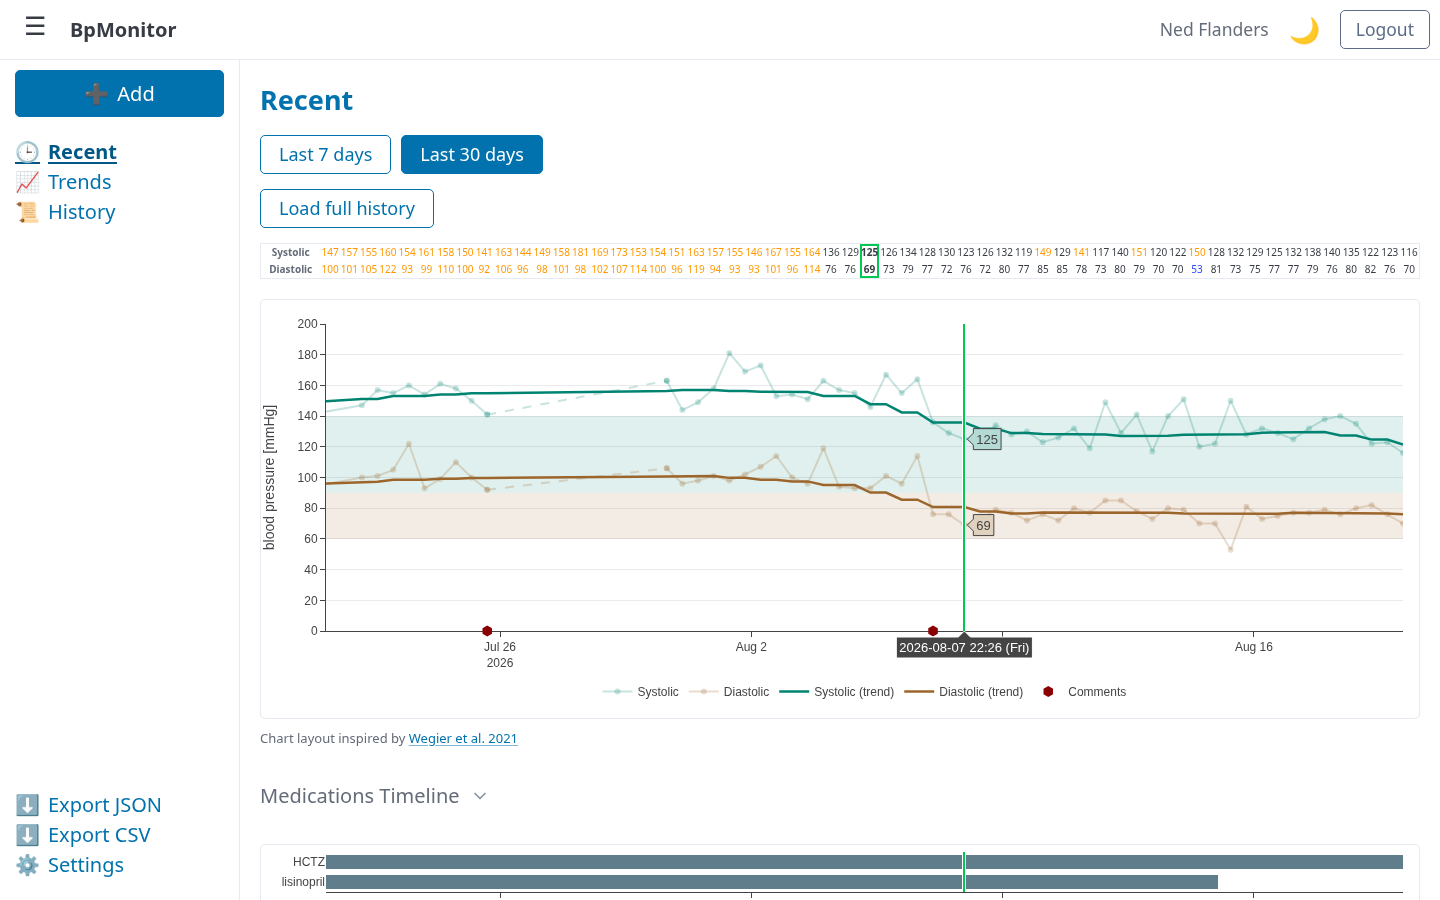
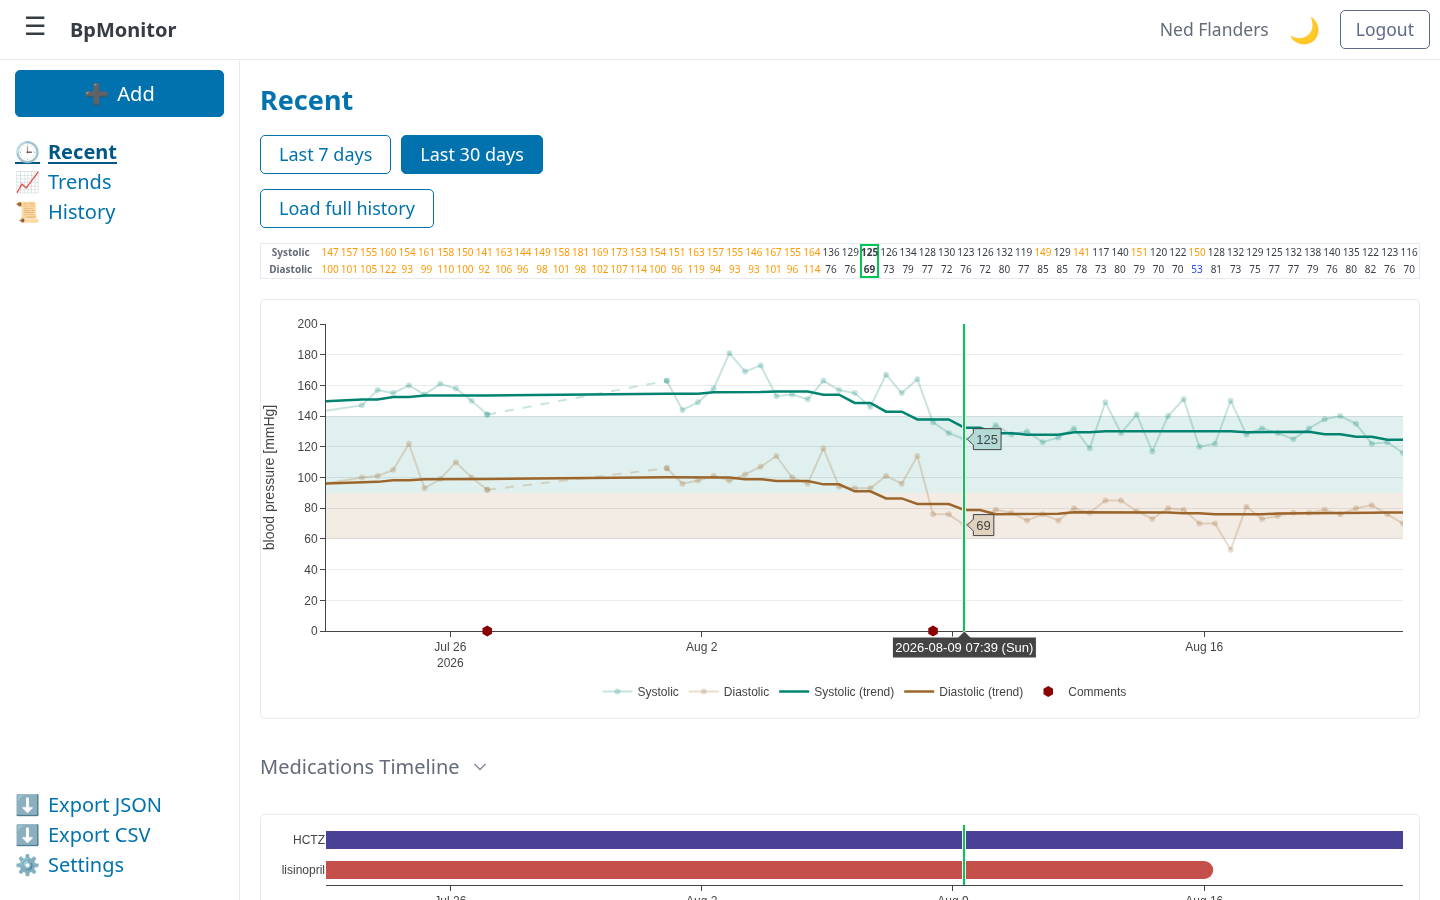
✨ feat(charts): give each medication its own color on the timeline
Each medication gets a stable, validated color hashed from its name, muted
to match the app's existing jewel-tone palette. Bars are thicker with
rounded ends, and a dark-mode zeroline bug is fixed.

diff --git a/code/BpMonitor.Charts.Tests/VerifiedSnapshots/MedicationChartTests.toHtmlMedications matches snapshot.verified.html b/code/BpMonitor.Charts.Tests/VerifiedSnapshots/MedicationChartTests.toHtmlMedications matches snapshot.verified.html
@@ -1,6 +1,6 @@
 <div><div id="Guid_1"><!-- Plotly chart will be drawn inside this DIV --></div><script type="text/javascript">var renderPlotly_Guid_1 = function() {
-    var data = [{"type":"scatter","mode":"lines","x":["2026-01-01 00:00","2026-02-01 00:00"],"y":[0,0],"text":["hydrochlorothiazide<br>2026-01-01 → ongoing","hydrochlorothiazide<br>2026-01-01 → ongoing"],"marker":{},"line":{"color":"#607D8B","width":14.0},"showlegend":false,"hovertemplate":"%{text}<extra><\/extra>"},{"type":"scatter","mode":"lines","x":["2026-01-15 00:00","2026-01-28 00:00"],"y":[1,1],"text":["lisinopril<br>2026-01-15 → 2026-01-28<br>Ran out of medication","lisinopril<br>2026-01-15 → 2026-01-28<br>Ran out of medication"],"marker":{},"line":{"color":"#607D8B","width":14.0},"showlegend":false,"hovertemplate":"%{text}<extra><\/extra>"}];
-    var layout = {"height":88,"template":{"layout":{"title":{"x":0.05},"font":{"color":"rgba(42, 63, 95, 1.0)"},"paper_bgcolor":"rgba(255, 255, 255, 1.0)","plot_bgcolor":"rgba(229, 236, 246, 1.0)","autotypenumbers":"strict","colorscale":{"diverging":[[0.0,"#8e0152"],[0.1,"#c51b7d"],[0.2,"#de77ae"],[0.3,"#f1b6da"],[0.4,"#fde0ef"],[0.5,"#f7f7f7"],[0.6,"#e6f5d0"],[0.7,"#b8e186"],[0.8,"#7fbc41"],[0.9,"#4d9221"],[1.0,"#276419"]],"sequential":[[0.0,"#0d0887"],[0.1111111111111111,"#46039f"],[0.2222222222222222,"#7201a8"],[0.3333333333333333,"#9c179e"],[0.4444444444444444,"#bd3786"],[0.5555555555555556,"#d8576b"],[0.6666666666666666,"#ed7953"],[0.7777777777777778,"#fb9f3a"],[0.8888888888888888,"#fdca26"],[1.0,"#f0f921"]],"sequentialminus":[[0.0,"#0d0887"],[0.1111111111111111,"#46039f"],[0.2222222222222222,"#7201a8"],[0.3333333333333333,"#9c179e"],[0.4444444444444444,"#bd3786"],[0.5555555555555556,"#d8576b"],[0.6666666666666666,"#ed7953"],[0.7777777777777778,"#fb9f3a"],[0.8888888888888888,"#fdca26"],[1.0,"#f0f921"]]},"hovermode":"closest","hoverlabel":{"align":"left"},"coloraxis":{"colorbar":{"outlinewidth":0.0,"ticks":""}},"geo":{"showland":true,"landcolor":"rgba(229, 236, 246, 1.0)","showlakes":true,"lakecolor":"rgba(255, 255, 255, 1.0)","subunitcolor":"rgba(255, 255, 255, 1.0)","bgcolor":"rgba(255, 255, 255, 1.0)"},"mapbox":{"style":"light"},"polar":{"bgcolor":"rgba(229, 236, 246, 1.0)","radialaxis":{"linecolor":"rgba(255, 255, 255, 1.0)","gridcolor":"rgba(255, 255, 255, 1.0)","ticks":""},"angularaxis":{"linecolor":"rgba(255, 255, 255, 1.0)","gridcolor":"rgba(255, 255, 255, 1.0)","ticks":""}},"scene":{"xaxis":{"ticks":"","linecolor":"rgba(255, 255, 255, 1.0)","gridcolor":"rgba(255, 255, 255, 1.0)","gridwidth":2.0,"zerolinecolor":"rgba(255, 255, 255, 1.0)","backgroundcolor":"rgba(229, 236, 246, 1.0)","showbackground":true},"yaxis":{"ticks":"","linecolor":"rgba(255, 255, 255, 1.0)","gridcolor":"rgba(255, 255, 255, 1.0)","gridwidth":2.0,"zerolinecolor":"rgba(255, 255, 255, 1.0)","backgroundcolor":"rgba(229, 236, 246, 1.0)","showbackground":true},"zaxis":{"ticks":"","linecolor":"rgba(255, 255, 255, 1.0)","gridcolor":"rgba(255, 255, 255, 1.0)","gridwidth":2.0,"zerolinecolor":"rgba(255, 255, 255, 1.0)","backgroundcolor":"rgba(229, 236, 246, 1.0)","showbackground":true}},"ternary":{"aaxis":{"ticks":"","linecolor":"rgba(255, 255, 255, 1.0)","gridcolor":"rgba(255, 255, 255, 1.0)"},"baxis":{"ticks":"","linecolor":"rgba(255, 255, 255, 1.0)","gridcolor":"rgba(255, 255, 255, 1.0)"},"caxis":{"ticks":"","linecolor":"rgba(255, 255, 255, 1.0)","gridcolor":"rgba(255, 255, 255, 1.0)"},"bgcolor":"rgba(229, 236, 246, 1.0)"},"xaxis":{"title":{"standoff":15},"ticks":"","automargin":"height+width+left+right+top+bottom","linecolor":"rgba(255, 255, 255, 1.0)","gridcolor":"rgba(255, 255, 255, 1.0)","zerolinecolor":"rgba(255, 255, 255, 1.0)","zerolinewidth":2.0},"yaxis":{"title":{"standoff":15},"ticks":"","automargin":"height+width+left+right+top+bottom","linecolor":"rgba(255, 255, 255, 1.0)","gridcolor":"rgba(255, 255, 255, 1.0)","zerolinecolor":"rgba(255, 255, 255, 1.0)","zerolinewidth":2.0},"annotationdefaults":{"arrowcolor":"#2a3f5f","arrowhead":0,"arrowwidth":1},"shapedefaults":{"line":{"color":"rgba(42, 63, 95, 1.0)"}},"colorway":["rgba(99, 110, 250, 1.0)","rgba(239, 85, 59, 1.0)","rgba(0, 204, 150, 1.0)","rgba(171, 99, 250, 1.0)","rgba(255, 161, 90, 1.0)","rgba(25, 211, 243, 1.0)","rgba(255, 102, 146, 1.0)","rgba(182, 232, 128, 1.0)","rgba(255, 151, 255, 1.0)","rgba(254, 203, 82, 1.0)"]},"data":{"bar":[{"marker":{"line":{"color":"rgba(229, 236, 246, 1.0)","width":0.5},"pattern":{"fillmode":"overlay","size":10,"solidity":0.2}},"error_x":{"color":"rgba(42, 63, 95, 1.0)"},"error_y":{"color":"rgba(42, 63, 95, 1.0)"}}],"barpolar":[{"marker":{"line":{"color":"rgba(229, 236, 246, 1.0)","width":0.5},"pattern":{"fillmode":"overlay","size":10,"solidity":0.2}}}],"carpet":[{"aaxis":{"linecolor":"rgba(255, 255, 255, 1.0)","gridcolor":"rgba(255, 255, 255, 1.0)","endlinecolor":"rgba(42, 63, 95, 1.0)","minorgridcolor":"rgba(255, 255, 255, 1.0)","startlinecolor":"rgba(42, 63, 95, 1.0)"},"baxis":{"linecolor":"rgba(255, 255, 255, 1.0)","gridcolor":"rgba(255, 255, 255, 1.0)","endlinecolor":"rgba(42, 63, 95, 1.0)","minorgridcolor":"rgba(255, 255, 255, 1.0)","startlinecolor":"rgba(42, 63, 95, 1.0)"}}],"choropleth":[{"colorbar":{"outlinewidth":0.0,"ticks":""},"colorscale":[[0.0,"#0d0887"],[0.1111111111111111,"#46039f"],[0.2222222222222222,"#7201a8"],[0.3333333333333333,"#9c179e"],[0.4444444444444444,"#bd3786"],[0.5555555555555556,"#d8576b"],[0.6666666666666666,"#ed7953"],[0.7777777777777778,"#fb9f3a"],[0.8888888888888888,"#fdca26"],[1.0,"#f0f921"]]}],"contour":[{"colorbar":{"outlinewidth":0.0,"ticks":""},"colorscale":[[0.0,"#0d0887"],[0.1111111111111111,"#46039f"],[0.2222222222222222,"#7201a8"],[0.3333333333333333,"#9c179e"],[0.4444444444444444,"#bd3786"],[0.5555555555555556,"#d8576b"],[0.6666666666666666,"#ed7953"],[0.7777777777777778,"#fb9f3a"],[0.8888888888888888,"#fdca26"],[1.0,"#f0f921"]]}],"contourcarpet":[{"colorbar":{"outlinewidth":0.0,"ticks":""}}],"heatmap":[{"colorbar":{"outlinewidth":0.0,"ticks":""},"colorscale":[[0.0,"#0d0887"],[0.1111111111111111,"#46039f"],[0.2222222222222222,"#7201a8"],[0.3333333333333333,"#9c179e"],[0.4444444444444444,"#bd3786"],[0.5555555555555556,"#d8576b"],[0.6666666666666666,"#ed7953"],[0.7777777777777778,"#fb9f3a"],[0.8888888888888888,"#fdca26"],[1.0,"#f0f921"]]}],"heatmapgl":[{"colorbar":{"outlinewidth":0.0,"ticks":""},"colorscale":[[0.0,"#0d0887"],[0.1111111111111111,"#46039f"],[0.2222222222222222,"#7201a8"],[0.3333333333333333,"#9c179e"],[0.4444444444444444,"#bd3786"],[0.5555555555555556,"#d8576b"],[0.6666666666666666,"#ed7953"],[0.7777777777777778,"#fb9f3a"],[0.8888888888888888,"#fdca26"],[1.0,"#f0f921"]]}],"histogram":[{"marker":{"pattern":{"fillmode":"overlay","size":10,"solidity":0.2}}}],"histogram2d":[{"colorbar":{"outlinewidth":0.0,"ticks":""},"colorscale":[[0.0,"#0d0887"],[0.1111111111111111,"#46039f"],[0.2222222222222222,"#7201a8"],[0.3333333333333333,"#9c179e"],[0.4444444444444444,"#bd3786"],[0.5555555555555556,"#d8576b"],[0.6666666666666666,"#ed7953"],[0.7777777777777778,"#fb9f3a"],[0.8888888888888888,"#fdca26"],[1.0,"#f0f921"]]}],"histogram2dcontour":[{"colorbar":{"outlinewidth":0.0,"ticks":""},"colorscale":[[0.0,"#0d0887"],[0.1111111111111111,"#46039f"],[0.2222222222222222,"#7201a8"],[0.3333333333333333,"#9c179e"],[0.4444444444444444,"#bd3786"],[0.5555555555555556,"#d8576b"],[0.6666666666666666,"#ed7953"],[0.7777777777777778,"#fb9f3a"],[0.8888888888888888,"#fdca26"],[1.0,"#f0f921"]]}],"mesh3d":[{"colorbar":{"outlinewidth":0.0,"ticks":""}}],"parcoords":[{"line":{"colorbar":{"outlinewidth":0.0,"ticks":""}}}],"pie":[{"automargin":true}],"scatter":[{"marker":{"colorbar":{"outlinewidth":0.0,"ticks":""}}}],"scatter3d":[{"marker":{"colorbar":{"outlinewidth":0.0,"ticks":""}},"line":{"colorbar":{"outlinewidth":0.0,"ticks":""}}}],"scattercarpet":[{"marker":{"colorbar":{"outlinewidth":0.0,"ticks":""}}}],"scattergeo":[{"marker":{"colorbar":{"outlinewidth":0.0,"ticks":""}}}],"scattergl":[{"marker":{"colorbar":{"outlinewidth":0.0,"ticks":""}}}],"scattermapbox":[{"marker":{"colorbar":{"outlinewidth":0.0,"ticks":""}}}],"scatterpolar":[{"marker":{"colorbar":{"outlinewidth":0.0,"ticks":""}}}],"scatterpolargl":[{"marker":{"colorbar":{"outlinewidth":0.0,"ticks":""}}}],"scatterternary":[{"marker":{"colorbar":{"outlinewidth":0.0,"ticks":""}}}],"surface":[{"colorbar":{"outlinewidth":0.0,"ticks":""},"colorscale":[[0.0,"#0d0887"],[0.1111111111111111,"#46039f"],[0.2222222222222222,"#7201a8"],[0.3333333333333333,"#9c179e"],[0.4444444444444444,"#bd3786"],[0.5555555555555556,"#d8576b"],[0.6666666666666666,"#ed7953"],[0.7777777777777778,"#fb9f3a"],[0.8888888888888888,"#fdca26"],[1.0,"#f0f921"]]}],"table":[{"cells":{"fill":{"color":"rgba(235, 240, 248, 1.0)"},"line":{"color":"rgba(255, 255, 255, 1.0)"}},"header":{"fill":{"color":"rgba(200, 212, 227, 1.0)"},"line":{"color":"rgba(255, 255, 255, 1.0)"}}}]}},"margin":{"l":48,"r":16,"t":8,"b":40},"paper_bgcolor":"rgba(0,0,0,0)","plot_bgcolor":"rgba(0,0,0,0)","dragmode":false,"xaxis":{"range":["2026-01-01 00:00","2026-02-01 00:00"],"fixedrange":true,"ticks":"outside","tickcolor":"#444","showspikes":true,"spikecolor":"#00C853","spikethickness":2,"spikedash":"solid","spikemode":"across","spikesnap":"cursor","hoverformat":"%Y-%m-%d","showline":true,"linecolor":"#444","showgrid":false,"layer":"below traces"},"yaxis":{"range":[1.5,-0.5],"fixedrange":true,"tickmode":"array","tickvals":[0,1],"ticktext":["HCTZ","lisinopril"],"showline":false,"showgrid":false}};
+    var data = [{"type":"scatter","mode":"lines","x":["2026-01-01 00:00","2026-02-01 00:00"],"y":[0,0],"text":["hydrochlorothiazide<br>2026-01-01 → ongoing","hydrochlorothiazide<br>2026-01-01 → ongoing"],"marker":{},"line":{"color":"#494195","width":18.0},"showlegend":false,"hovertemplate":"%{text}<extra><\/extra>","meta":"#494195|#847DCC"},{"type":"scatter","mode":"lines","x":["2026-01-15 00:00","2026-01-28 00:00"],"y":[1,1],"text":["lisinopril<br>2026-01-15 → 2026-01-28<br>Ran out of medication","lisinopril<br>2026-01-15 → 2026-01-28<br>Ran out of medication"],"marker":{},"line":{"color":"#C54F4B","width":18.0},"showlegend":false,"hovertemplate":"%{text}<extra><\/extra>","meta":"#C54F4B|#CA6765"}];
+    var layout = {"height":112,"template":{"layout":{"title":{"x":0.05},"font":{"color":"rgba(42, 63, 95, 1.0)"},"paper_bgcolor":"rgba(255, 255, 255, 1.0)","plot_bgcolor":"rgba(229, 236, 246, 1.0)","autotypenumbers":"strict","colorscale":{"diverging":[[0.0,"#8e0152"],[0.1,"#c51b7d"],[0.2,"#de77ae"],[0.3,"#f1b6da"],[0.4,"#fde0ef"],[0.5,"#f7f7f7"],[0.6,"#e6f5d0"],[0.7,"#b8e186"],[0.8,"#7fbc41"],[0.9,"#4d9221"],[1.0,"#276419"]],"sequential":[[0.0,"#0d0887"],[0.1111111111111111,"#46039f"],[0.2222222222222222,"#7201a8"],[0.3333333333333333,"#9c179e"],[0.4444444444444444,"#bd3786"],[0.5555555555555556,"#d8576b"],[0.6666666666666666,"#ed7953"],[0.7777777777777778,"#fb9f3a"],[0.8888888888888888,"#fdca26"],[1.0,"#f0f921"]],"sequentialminus":[[0.0,"#0d0887"],[0.1111111111111111,"#46039f"],[0.2222222222222222,"#7201a8"],[0.3333333333333333,"#9c179e"],[0.4444444444444444,"#bd3786"],[0.5555555555555556,"#d8576b"],[0.6666666666666666,"#ed7953"],[0.7777777777777778,"#fb9f3a"],[0.8888888888888888,"#fdca26"],[1.0,"#f0f921"]]},"hovermode":"closest","hoverlabel":{"align":"left"},"coloraxis":{"colorbar":{"outlinewidth":0.0,"ticks":""}},"geo":{"showland":true,"landcolor":"rgba(229, 236, 246, 1.0)","showlakes":true,"lakecolor":"rgba(255, 255, 255, 1.0)","subunitcolor":"rgba(255, 255, 255, 1.0)","bgcolor":"rgba(255, 255, 255, 1.0)"},"mapbox":{"style":"light"},"polar":{"bgcolor":"rgba(229, 236, 246, 1.0)","radialaxis":{"linecolor":"rgba(255, 255, 255, 1.0)","gridcolor":"rgba(255, 255, 255, 1.0)","ticks":""},"angularaxis":{"linecolor":"rgba(255, 255, 255, 1.0)","gridcolor":"rgba(255, 255, 255, 1.0)","ticks":""}},"scene":{"xaxis":{"ticks":"","linecolor":"rgba(255, 255, 255, 1.0)","gridcolor":"rgba(255, 255, 255, 1.0)","gridwidth":2.0,"zerolinecolor":"rgba(255, 255, 255, 1.0)","backgroundcolor":"rgba(229, 236, 246, 1.0)","showbackground":true},"yaxis":{"ticks":"","linecolor":"rgba(255, 255, 255, 1.0)","gridcolor":"rgba(255, 255, 255, 1.0)","gridwidth":2.0,"zerolinecolor":"rgba(255, 255, 255, 1.0)","backgroundcolor":"rgba(229, 236, 246, 1.0)","showbackground":true},"zaxis":{"ticks":"","linecolor":"rgba(255, 255, 255, 1.0)","gridcolor":"rgba(255, 255, 255, 1.0)","gridwidth":2.0,"zerolinecolor":"rgba(255, 255, 255, 1.0)","backgroundcolor":"rgba(229, 236, 246, 1.0)","showbackground":true}},"ternary":{"aaxis":{"ticks":"","linecolor":"rgba(255, 255, 255, 1.0)","gridcolor":"rgba(255, 255, 255, 1.0)"},"baxis":{"ticks":"","linecolor":"rgba(255, 255, 255, 1.0)","gridcolor":"rgba(255, 255, 255, 1.0)"},"caxis":{"ticks":"","linecolor":"rgba(255, 255, 255, 1.0)","gridcolor":"rgba(255, 255, 255, 1.0)"},"bgcolor":"rgba(229, 236, 246, 1.0)"},"xaxis":{"title":{"standoff":15},"ticks":"","automargin":"height+width+left+right+top+bottom","linecolor":"rgba(255, 255, 255, 1.0)","gridcolor":"rgba(255, 255, 255, 1.0)","zerolinecolor":"rgba(255, 255, 255, 1.0)","zerolinewidth":2.0},"yaxis":{"title":{"standoff":15},"ticks":"","automargin":"height+width+left+right+top+bottom","linecolor":"rgba(255, 255, 255, 1.0)","gridcolor":"rgba(255, 255, 255, 1.0)","zerolinecolor":"rgba(255, 255, 255, 1.0)","zerolinewidth":2.0},"annotationdefaults":{"arrowcolor":"#2a3f5f","arrowhead":0,"arrowwidth":1},"shapedefaults":{"line":{"color":"rgba(42, 63, 95, 1.0)"}},"colorway":["rgba(99, 110, 250, 1.0)","rgba(239, 85, 59, 1.0)","rgba(0, 204, 150, 1.0)","rgba(171, 99, 250, 1.0)","rgba(255, 161, 90, 1.0)","rgba(25, 211, 243, 1.0)","rgba(255, 102, 146, 1.0)","rgba(182, 232, 128, 1.0)","rgba(255, 151, 255, 1.0)","rgba(254, 203, 82, 1.0)"]},"data":{"bar":[{"marker":{"line":{"color":"rgba(229, 236, 246, 1.0)","width":0.5},"pattern":{"fillmode":"overlay","size":10,"solidity":0.2}},"error_x":{"color":"rgba(42, 63, 95, 1.0)"},"error_y":{"color":"rgba(42, 63, 95, 1.0)"}}],"barpolar":[{"marker":{"line":{"color":"rgba(229, 236, 246, 1.0)","width":0.5},"pattern":{"fillmode":"overlay","size":10,"solidity":0.2}}}],"carpet":[{"aaxis":{"linecolor":"rgba(255, 255, 255, 1.0)","gridcolor":"rgba(255, 255, 255, 1.0)","endlinecolor":"rgba(42, 63, 95, 1.0)","minorgridcolor":"rgba(255, 255, 255, 1.0)","startlinecolor":"rgba(42, 63, 95, 1.0)"},"baxis":{"linecolor":"rgba(255, 255, 255, 1.0)","gridcolor":"rgba(255, 255, 255, 1.0)","endlinecolor":"rgba(42, 63, 95, 1.0)","minorgridcolor":"rgba(255, 255, 255, 1.0)","startlinecolor":"rgba(42, 63, 95, 1.0)"}}],"choropleth":[{"colorbar":{"outlinewidth":0.0,"ticks":""},"colorscale":[[0.0,"#0d0887"],[0.1111111111111111,"#46039f"],[0.2222222222222222,"#7201a8"],[0.3333333333333333,"#9c179e"],[0.4444444444444444,"#bd3786"],[0.5555555555555556,"#d8576b"],[0.6666666666666666,"#ed7953"],[0.7777777777777778,"#fb9f3a"],[0.8888888888888888,"#fdca26"],[1.0,"#f0f921"]]}],"contour":[{"colorbar":{"outlinewidth":0.0,"ticks":""},"colorscale":[[0.0,"#0d0887"],[0.1111111111111111,"#46039f"],[0.2222222222222222,"#7201a8"],[0.3333333333333333,"#9c179e"],[0.4444444444444444,"#bd3786"],[0.5555555555555556,"#d8576b"],[0.6666666666666666,"#ed7953"],[0.7777777777777778,"#fb9f3a"],[0.8888888888888888,"#fdca26"],[1.0,"#f0f921"]]}],"contourcarpet":[{"colorbar":{"outlinewidth":0.0,"ticks":""}}],"heatmap":[{"colorbar":{"outlinewidth":0.0,"ticks":""},"colorscale":[[0.0,"#0d0887"],[0.1111111111111111,"#46039f"],[0.2222222222222222,"#7201a8"],[0.3333333333333333,"#9c179e"],[0.4444444444444444,"#bd3786"],[0.5555555555555556,"#d8576b"],[0.6666666666666666,"#ed7953"],[0.7777777777777778,"#fb9f3a"],[0.8888888888888888,"#fdca26"],[1.0,"#f0f921"]]}],"heatmapgl":[{"colorbar":{"outlinewidth":0.0,"ticks":""},"colorscale":[[0.0,"#0d0887"],[0.1111111111111111,"#46039f"],[0.2222222222222222,"#7201a8"],[0.3333333333333333,"#9c179e"],[0.4444444444444444,"#bd3786"],[0.5555555555555556,"#d8576b"],[0.6666666666666666,"#ed7953"],[0.7777777777777778,"#fb9f3a"],[0.8888888888888888,"#fdca26"],[1.0,"#f0f921"]]}],"histogram":[{"marker":{"pattern":{"fillmode":"overlay","size":10,"solidity":0.2}}}],"histogram2d":[{"colorbar":{"outlinewidth":0.0,"ticks":""},"colorscale":[[0.0,"#0d0887"],[0.1111111111111111,"#46039f"],[0.2222222222222222,"#7201a8"],[0.3333333333333333,"#9c179e"],[0.4444444444444444,"#bd3786"],[0.5555555555555556,"#d8576b"],[0.6666666666666666,"#ed7953"],[0.7777777777777778,"#fb9f3a"],[0.8888888888888888,"#fdca26"],[1.0,"#f0f921"]]}],"histogram2dcontour":[{"colorbar":{"outlinewidth":0.0,"ticks":""},"colorscale":[[0.0,"#0d0887"],[0.1111111111111111,"#46039f"],[0.2222222222222222,"#7201a8"],[0.3333333333333333,"#9c179e"],[0.4444444444444444,"#bd3786"],[0.5555555555555556,"#d8576b"],[0.6666666666666666,"#ed7953"],[0.7777777777777778,"#fb9f3a"],[0.8888888888888888,"#fdca26"],[1.0,"#f0f921"]]}],"mesh3d":[{"colorbar":{"outlinewidth":0.0,"ticks":""}}],"parcoords":[{"line":{"colorbar":{"outlinewidth":0.0,"ticks":""}}}],"pie":[{"automargin":true}],"scatter":[{"marker":{"colorbar":{"outlinewidth":0.0,"ticks":""}}}],"scatter3d":[{"marker":{"colorbar":{"outlinewidth":0.0,"ticks":""}},"line":{"colorbar":{"outlinewidth":0.0,"ticks":""}}}],"scattercarpet":[{"marker":{"colorbar":{"outlinewidth":0.0,"ticks":""}}}],"scattergeo":[{"marker":{"colorbar":{"outlinewidth":0.0,"ticks":""}}}],"scattergl":[{"marker":{"colorbar":{"outlinewidth":0.0,"ticks":""}}}],"scattermapbox":[{"marker":{"colorbar":{"outlinewidth":0.0,"ticks":""}}}],"scatterpolar":[{"marker":{"colorbar":{"outlinewidth":0.0,"ticks":""}}}],"scatterpolargl":[{"marker":{"colorbar":{"outlinewidth":0.0,"ticks":""}}}],"scatterternary":[{"marker":{"colorbar":{"outlinewidth":0.0,"ticks":""}}}],"surface":[{"colorbar":{"outlinewidth":0.0,"ticks":""},"colorscale":[[0.0,"#0d0887"],[0.1111111111111111,"#46039f"],[0.2222222222222222,"#7201a8"],[0.3333333333333333,"#9c179e"],[0.4444444444444444,"#bd3786"],[0.5555555555555556,"#d8576b"],[0.6666666666666666,"#ed7953"],[0.7777777777777778,"#fb9f3a"],[0.8888888888888888,"#fdca26"],[1.0,"#f0f921"]]}],"table":[{"cells":{"fill":{"color":"rgba(235, 240, 248, 1.0)"},"line":{"color":"rgba(255, 255, 255, 1.0)"}},"header":{"fill":{"color":"rgba(200, 212, 227, 1.0)"},"line":{"color":"rgba(255, 255, 255, 1.0)"}}}]}},"margin":{"l":48,"r":16,"t":12,"b":40},"paper_bgcolor":"rgba(0,0,0,0)","plot_bgcolor":"rgba(0,0,0,0)","dragmode":false,"xaxis":{"range":["2026-01-01 00:00","2026-02-01 00:00"],"fixedrange":true,"ticks":"outside","tickcolor":"#444","showspikes":true,"spikecolor":"#00C853","spikethickness":2,"spikedash":"solid","spikemode":"across","spikesnap":"cursor","hoverformat":"%Y-%m-%d","showline":true,"linecolor":"#444","showgrid":false,"layer":"below traces"},"yaxis":{"range":[1.5,-0.5],"fixedrange":true,"tickmode":"array","tickvals":[0,1],"ticktext":["HCTZ","lisinopril"],"showline":false,"showgrid":false,"zeroline":false}};
     var config = {"responsive":true,"scrollZoom":false,"displayModeBar":false};
     Plotly.newPlot('Guid_1', data, layout, config);
 };

diff --git a/code/BpMonitor.Web/wwwroot/theme.js b/code/BpMonitor.Web/wwwroot/theme.js
@@ -20,6 +20,17 @@ function applyChartTheme(theme) {
       'yaxis.tickcolor': axisLineColor,
       'yaxis.gridcolor': isDark ? 'rgba(194,207,214,0.12)' : 'rgba(0,0,0,0.08)'
     });
+    restyleMedicationColors(/** @type {PlotlyChartElement} */ (d), isDark);
+  });
+}
+
+// Medications Timeline traces carry "light|dark" hexes in `meta` (Charts.fs); swap in the right half.
+/** @param {PlotlyChartElement} plot @param {boolean} isDark */
+function restyleMedicationColors(plot, isDark) {
+  const metas = (plot.data || []).map((/** @type {any} */ tr) => tr.meta);
+  if (metas.length === 0 || !metas.every((/** @type {any} */ m) => typeof m === 'string' && m.includes('|'))) return;
+  Plotly.restyle(plot, {
+    'line.color': metas.map((/** @type {string} */ m) => m.split('|')[isDark ? 1 : 0])
   });
 }
 

diff --git a/code/BpMonitor.Web/wwwroot/app.css b/code/BpMonitor.Web/wwwroot/app.css
@@ -627,6 +627,11 @@ form.inline button {
   overflow: visible;
 }
 
+/* Rounded bar ends on the medication rows (Plotly draws each as an SVG line). */
+.medications-chart .scatterlayer .js-line {
+  stroke-linecap: round;
+}
+
 /* Fig. 5-style "Blood Pressure Values" strip: a 2-row data table (Systolic/
    Diastolic) listing every value currently shown in the chart window. Fixed
    table layout stretches to the same width as the chart below it and

diff --git a/docs/architecture.md b/docs/architecture.md
@@ -156,6 +156,7 @@ graph TD
 
 - Plotly.NET chart generation — `BpChart.toHtml goal readings` (history/recent line chart) and `BpChart.toHtmlDashed goal gran aggregated` (trends dashed chart)
 - `BpChart.toHtmlMedications showScrubber rangeLow rangeHigh medications` — the Medications Timeline (Wegier et al. 2021 Fig. 5): one thick horizontal bar per medication spanning `StartDate`→`EndDate` (ongoing medications reach `rangeHigh`) on a date axis sized to match the BP chart's margins; `showScrubber` adds the same green spike line as `/recent`'s BP chart (`SpikeSnap = Cursor`, not `Data`, so it tracks the cursor rather than snapping to a medication's own start/end date); returns `""` for an empty medication list so callers skip rendering the panel
+- Each medication bar gets its own color: `medicationSlot`/`assignSlots` hash the medication's name (FNV-1a, stable across restarts) into an 8-slot categorical palette, linear-probing past collisions — same medication, same color across `/recent`/`/history`. Each trace carries both its light and dark hex as `meta = "light|dark"`; `wwwroot/theme.js`'s `restyleMedicationColors` swaps the visible half on theme toggle instead of duplicating the palette in JS
 - Returns a chart HTML fragment embedded directly into the page by the calling handler (`ReadingHandlers.fs`)
 - `goal: GoalRange` renders a translucent horizontal background band per series (systolic mint `#008471`, diastolic cocoa `#9C652B`) behind the data, matching each series' line color — the "like-with-like" goal-range design from Wegier et al. 2021 (`docs/resources/12911_2021_Article_1598.pdf`, Fig. 3)
 - Depends on Core only

diff --git a/CHANGELOG.md b/CHANGELOG.md
@@ -15,6 +15,7 @@ and this project adheres to [Semantic Versioning](https://semver.org/spec/v2.0.0
 
 - Reordered sidebar and landing-page navigation: top group is now Add, Recent, Trends, History; Members moved into the bottom group alongside Export JSON, Export CSV, and Settings. The landing page now mirrors the sidebar's order and two-group layout.
 - Recent page: the "Chart layout inspired by Wegier et al. 2021" citation now sits below the Medications Timeline panel instead of above it.
+- Medications Timeline: each medication now gets its own color (consistent across visits), and its bar is thicker with rounded ends. Fixed a stray white line that could appear across the top row in dark mode.
 
 ## [1.10.1] - 2026-08-15
 
